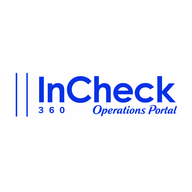
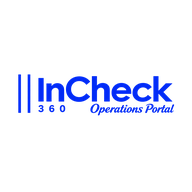
Add files via upload

Changed region(s): [[0.0625, 0.375, 0.9375, 0.625]]

diff --git a/styles.css b/styles.css
@@ -242,9 +242,9 @@ small{
 .topbar-menu-btn:hover{background:#1d4ed8;border-color:#1d4ed8;transform:translateY(-1px)}
 .topbar-brand{display:flex;align-items:center;gap:0;flex:0 0 auto;min-width:0;}
 .topbar-logo{
-  width:190px;height:52px;border-radius:14px;background:#ffffff;
+  width:210px;height:60px;border-radius:14px;background:transparent;
   display:flex;align-items:center;justify-content:center;overflow:hidden;
-  border:1px solid #dbeafe;padding:5px 8px;
+  border:0;padding:2px 4px;
 }
 .topbar-logo .brand-logo{width:100%;height:100%;object-fit:contain;}
 .topbar-brand-text{display:none;}
@@ -296,7 +296,7 @@ small{
 }
 @media (max-width:560px){
   #appHeader.app-topbar{padding:10px;gap:8px;}
-  .topbar-logo{width:138px;height:40px;border-radius:13px;padding:4px 6px;}
+  .topbar-logo{width:150px;height:42px;border-radius:13px;padding:2px 4px;background:transparent;border:0;}
   .topbar-icon-btn{width:40px;height:40px;border-radius:13px;font-size:16px;}
   .topbar-online{height:34px;padding:0 9px;font-size:12px;}
   .topbar-language{height:38px;padding:0 9px;}
@@ -671,10 +671,10 @@ body.auth-locked .login-logo,
 .login-brand-logo,
 .auth-brand-logo{
   display:block;
-  width:min(440px,86vw);
-  max-width:440px;
+  width:min(500px,88vw);
+  max-width:500px;
   height:auto;
-  max-height:160px;
+  max-height:180px;
   object-fit:contain;
   object-position:center;
   margin:0 auto 1rem;

diff --git a/service-worker.js b/service-worker.js
@@ -1,4 +1,4 @@
-const STATIC_CACHE_NAME = 'incheck360-operations-portal-v3-logo';
+const STATIC_CACHE_NAME = 'incheck360-operations-portal-v4-transparent-logo';
 const PUSH_DIAGNOSTICS_CACHE_NAME = 'incheck360-operations-portal-push-diagnostics-v1';
 const PUSH_DIAGNOSTICS_PREFIX = '/__incheck360_push_diagnostics__/';
 const STATIC_ASSETS = [
